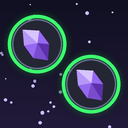
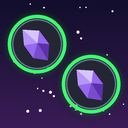
Simplify the Workshop preview to the scoreboard idea
Title on the left and three scoreboard-style rows on the right, on the
same background as the Archipelago mod's art. The icon uses that
background too.

diff --git a/tools/make_mod_art.py b/tools/make_mod_art.py
@@ -11,19 +11,22 @@ from PIL import Image, ImageDraw, ImageFilter, ImageFont
 OUT = sys.argv[1]
 SS = 4  # supersampling factor
 
-TOP = (16, 16, 34)
-BOTTOM = (34, 26, 58)
+# Background and title colors shared with the author's Archipelago mod art, so both Workshop items look related.
+TOP = (18, 14, 44)
+BOTTOM = (58, 28, 86)
+TITLE = (255, 236, 250)
+TITLE_GLOW = (190, 140, 255)
 SLOT = (36, 38, 52)
 SLOT_RIM = (97, 112, 135)
 GREEN = (60, 255, 110)  # #3CFF6E, the mod's duplicate color
 TEXT = (236, 232, 250)
-SUBTEXT = (180, 172, 210)
 
 # Crystal palettes (light, mid, dark facet).
 PURPLE = ((214, 196, 255), (150, 104, 240), (92, 48, 170))
 CYAN = ((200, 248, 255), (90, 200, 235), (34, 110, 160))
 RED = ((255, 205, 200), (235, 92, 86), (140, 36, 46))
 GOLD = ((255, 244, 200), (240, 196, 80), (160, 110, 30))
+SILVER = ((246, 246, 252), (190, 196, 212), (112, 118, 138))
 
 
 def gradient(w, h):
@@ -37,14 +40,17 @@ def gradient(w, h):
     return img
 
 
-def specks(img, n, seed):
+def stars(img, n, seed, keep_clear=()):
+    """Archipelago-style starfield; keep_clear: boxes (x0, y0, x1, y1) in final pixels left free for text."""
     rng = random.Random(seed)
     d = ImageDraw.Draw(img)
     w, h = img.size
     for _ in range(n):
-        x, y, r = rng.uniform(0, w), rng.uniform(0, h), rng.uniform(0.6, 1.8) * SS
-        a = rng.randint(40, 120)
-        d.ellipse((x - r, y - r, x + r, y + r), fill=(200, 190, 255, a))
+        x, y = rng.uniform(0, w), rng.uniform(0, h * 0.9)
+        if any(b[0] * SS <= x <= b[2] * SS and b[1] * SS <= y <= b[3] * SS for b in keep_clear):
+            continue
+        r = rng.choice([0.6, 0.8, 1.0, 1.4]) * SS
+        d.ellipse((x - r, y - r, x + r, y + r), fill=(255, 245, 255, rng.randint(90, 230)))
 
 
 def crystal(d, cx, cy, s, palette):
@@ -81,7 +87,7 @@ def slot(img, cx, cy, r, palette=None, ring=False):
 def icon():
     n = 128 * SS
     img = gradient(n, n).convert("RGBA")
-    specks(img, 30, 3)
+    stars(img, 40, 3)
     r = 25 * SS
     slot(img, 37 * SS, 44 * SS, r, PURPLE, ring=True)
     slot(img, 91 * SS, 84 * SS, r, PURPLE, ring=True)
@@ -89,38 +95,42 @@ def icon():
 
 
 def preview():
+    """Laid out like the Archipelago preview: glowing serif title and subtitle on the left, the picture on the right."""
     w, h = 1280, 720
     W, H = w * SS, h * SS
     img = gradient(W, H).convert("RGBA")
-    specks(img, 160, 7)
+    stars(img, 260, 9, keep_clear=[(60, 110, 640, 430), (700, 150, 1250, 570)])
+
+    lines, x, y0 = ["Who Has", "This Essence?"], 80 * SS, 130 * SS
+    size = 118
+    while True:
+        title = ImageFont.truetype("C:/Windows/Fonts/constanb.ttf", size * SS)
+        if max(title.getlength(t) for t in lines) <= 560 * SS:
+            break
+        size -= 2
+    sub = ImageFont.truetype("C:/Windows/Fonts/segoeuil.ttf", 40 * SS)
+    small = ImageFont.truetype("C:/Windows/Fonts/segoeui.ttf", 32 * SS)
+    line_h = int(size * 1.08) * SS
+    glow = Image.new("RGBA", img.size, (0, 0, 0, 0))
+    g = ImageDraw.Draw(glow)
+    for i, t in enumerate(lines):
+        g.text((x, y0 + i * line_h), t, font=title, fill=TITLE_GLOW + (180,))
+    img.alpha_composite(glow.filter(ImageFilter.GaussianBlur(14 * SS)))
     d = ImageDraw.Draw(img)
+    for i, t in enumerate(lines):
+        d.text((x, y0 + i * line_h), t, font=title, fill=TITLE + (255,))
+    d.text((x + 6 * SS, y0 + len(lines) * line_h + 40 * SS), "Shape of Dreams", font=sub, fill=(222, 206, 255, 255))
 
-    title = ImageFont.truetype("C:/Windows/Fonts/constanb.ttf", 96 * SS)
-    sub = ImageFont.truetype("C:/Windows/Fonts/segoeuil.ttf", 36 * SS)
-    small = ImageFont.truetype("C:/Windows/Fonts/segoeui.ttf", 30 * SS)
-    d.text((W / 2, 110 * SS), "Who Has This Essence?", font=title, fill=TEXT, anchor="mm")
-    d.text((W / 2, 190 * SS), "See which teammates can combine the essence at your feet", font=sub, fill=SUBTEXT,
-           anchor="mm")
-
-    # Left: three scoreboard rows; the shared purple essence is ringed on two of them.
-    rows = [("You", [PURPLE, CYAN, None]), ("Bo", [RED, PURPLE, GOLD]), ("Cy", [CYAN, None, GOLD])]
-    r = 34 * SS
-    x0, y0 = 110 * SS, 300 * SS
+    # Scoreboard-style rows: the essence you share with a teammate is ringed on both rows; nothing else is.
+    rows = [("You", [PURPLE, CYAN, None]), ("Player 2", [RED, PURPLE, GOLD]), ("Player 3", [SILVER, None, None])]
+    r = 40 * SS
+    x0, y0 = 720 * SS, 230 * SS
     for i, (name, gems) in enumerate(rows):
-        y = y0 + i * 125 * SS
+        y = y0 + i * 130 * SS
         d.text((x0, y), name, font=small, fill=TEXT, anchor="lm")
         for j, pal in enumerate(gems):
-            slot(img, x0 + (150 + j * 95) * SS, y, r, pal, ring=pal is PURPLE)
+            slot(img, x0 + (210 + j * 110) * SS, y, r, pal, ring=pal is PURPLE)
         d = ImageDraw.Draw(img)
-
-    # Right: the pickup prompt over a ground essence you don't have, with the mod's line under the name.
-    px, py = 900 * SS, 330 * SS
-    d.rounded_rectangle((px - 260 * SS, py - 50 * SS, px + 260 * SS, py + 30 * SS), radius=12 * SS,
-                        fill=(24, 22, 40, 230), outline=(120, 104, 180), width=2 * SS)
-    d.text((px, py - 10 * SS), "(100%) Essence of Embers", font=small, fill=(255, 196, 90), anchor="mm")
-    d.text((px, py + 62 * SS), "(Bo, Cy)", font=small, fill=GREEN, anchor="mm")
-    d.text((px, py + 120 * SS), "[F] Equip      [Hold F] Dismantle", font=small, fill=SUBTEXT, anchor="mm")
-    slot(img, px, py + 250 * SS, 48 * SS, GOLD)
 
     img.convert("RGB").resize((w, h), Image.LANCZOS).save(f"{OUT}/preview.png", optimize=True)
 
